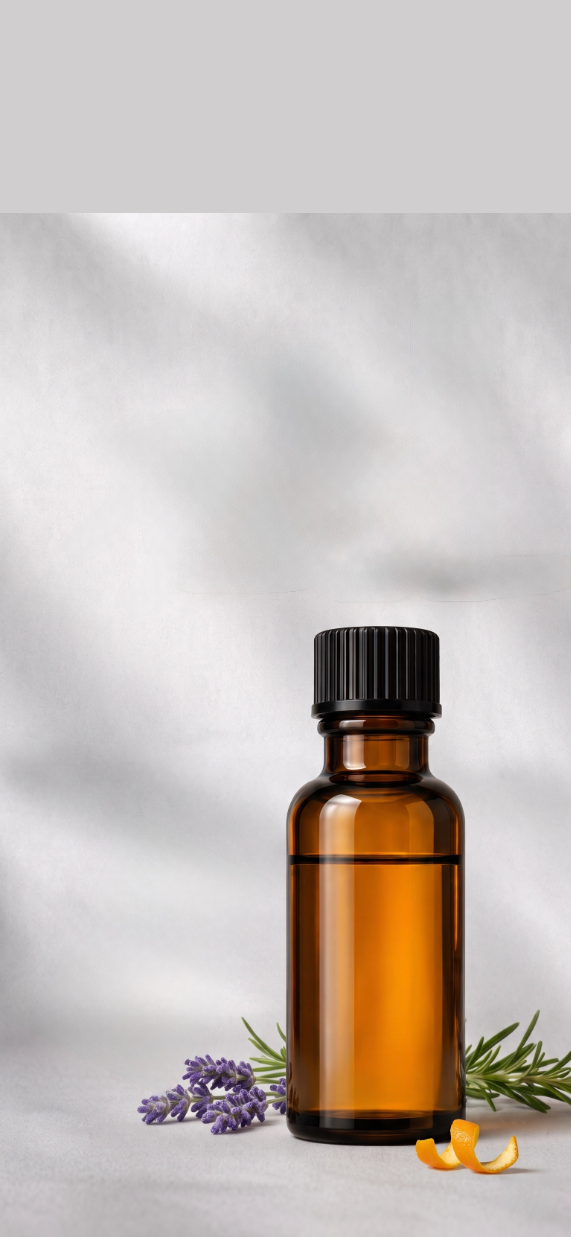
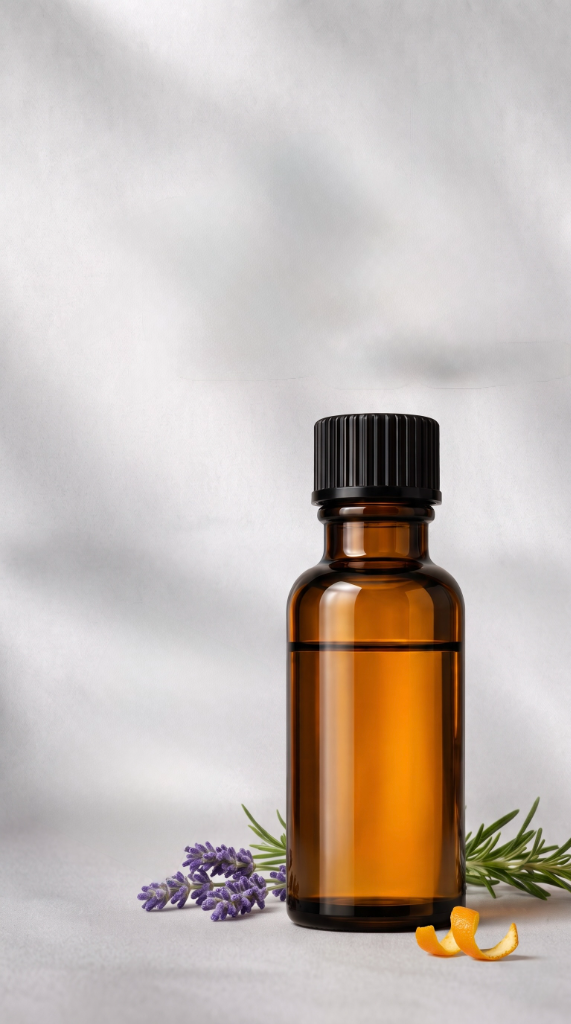
fix: revert background image extension and bust cache so natural cloth texture fills screen

diff --git a/frontend/src/index.css b/frontend/src/index.css
@@ -126,7 +126,7 @@ input[type="number"] {
 
 @media (max-width: 768px), (orientation: portrait) {
   .bg-responsive-fallback {
-    background-image: url('/images/phone-bg.png');
+    background-image: url('/images/phone-bg.png?v=2');
     background-position: bottom;
     transform: none;
     opacity: 1 !important;
